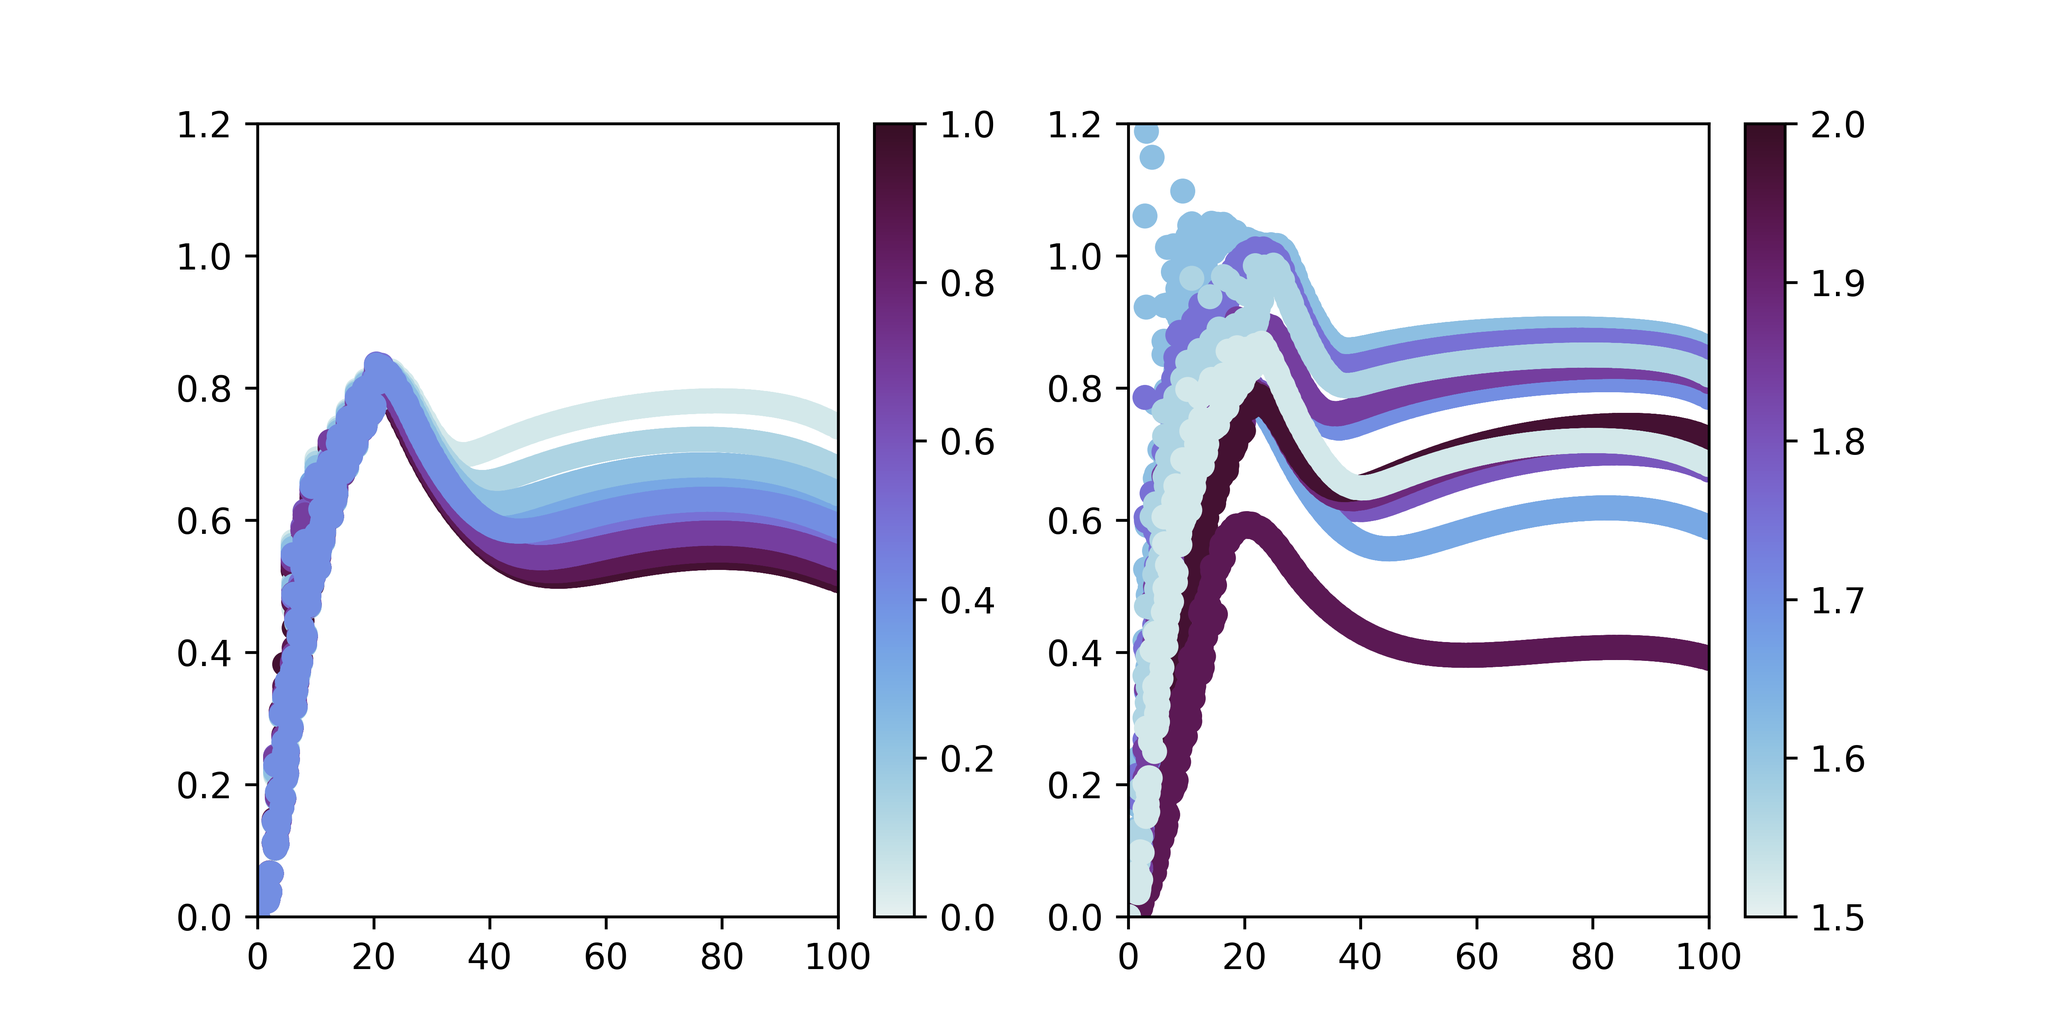
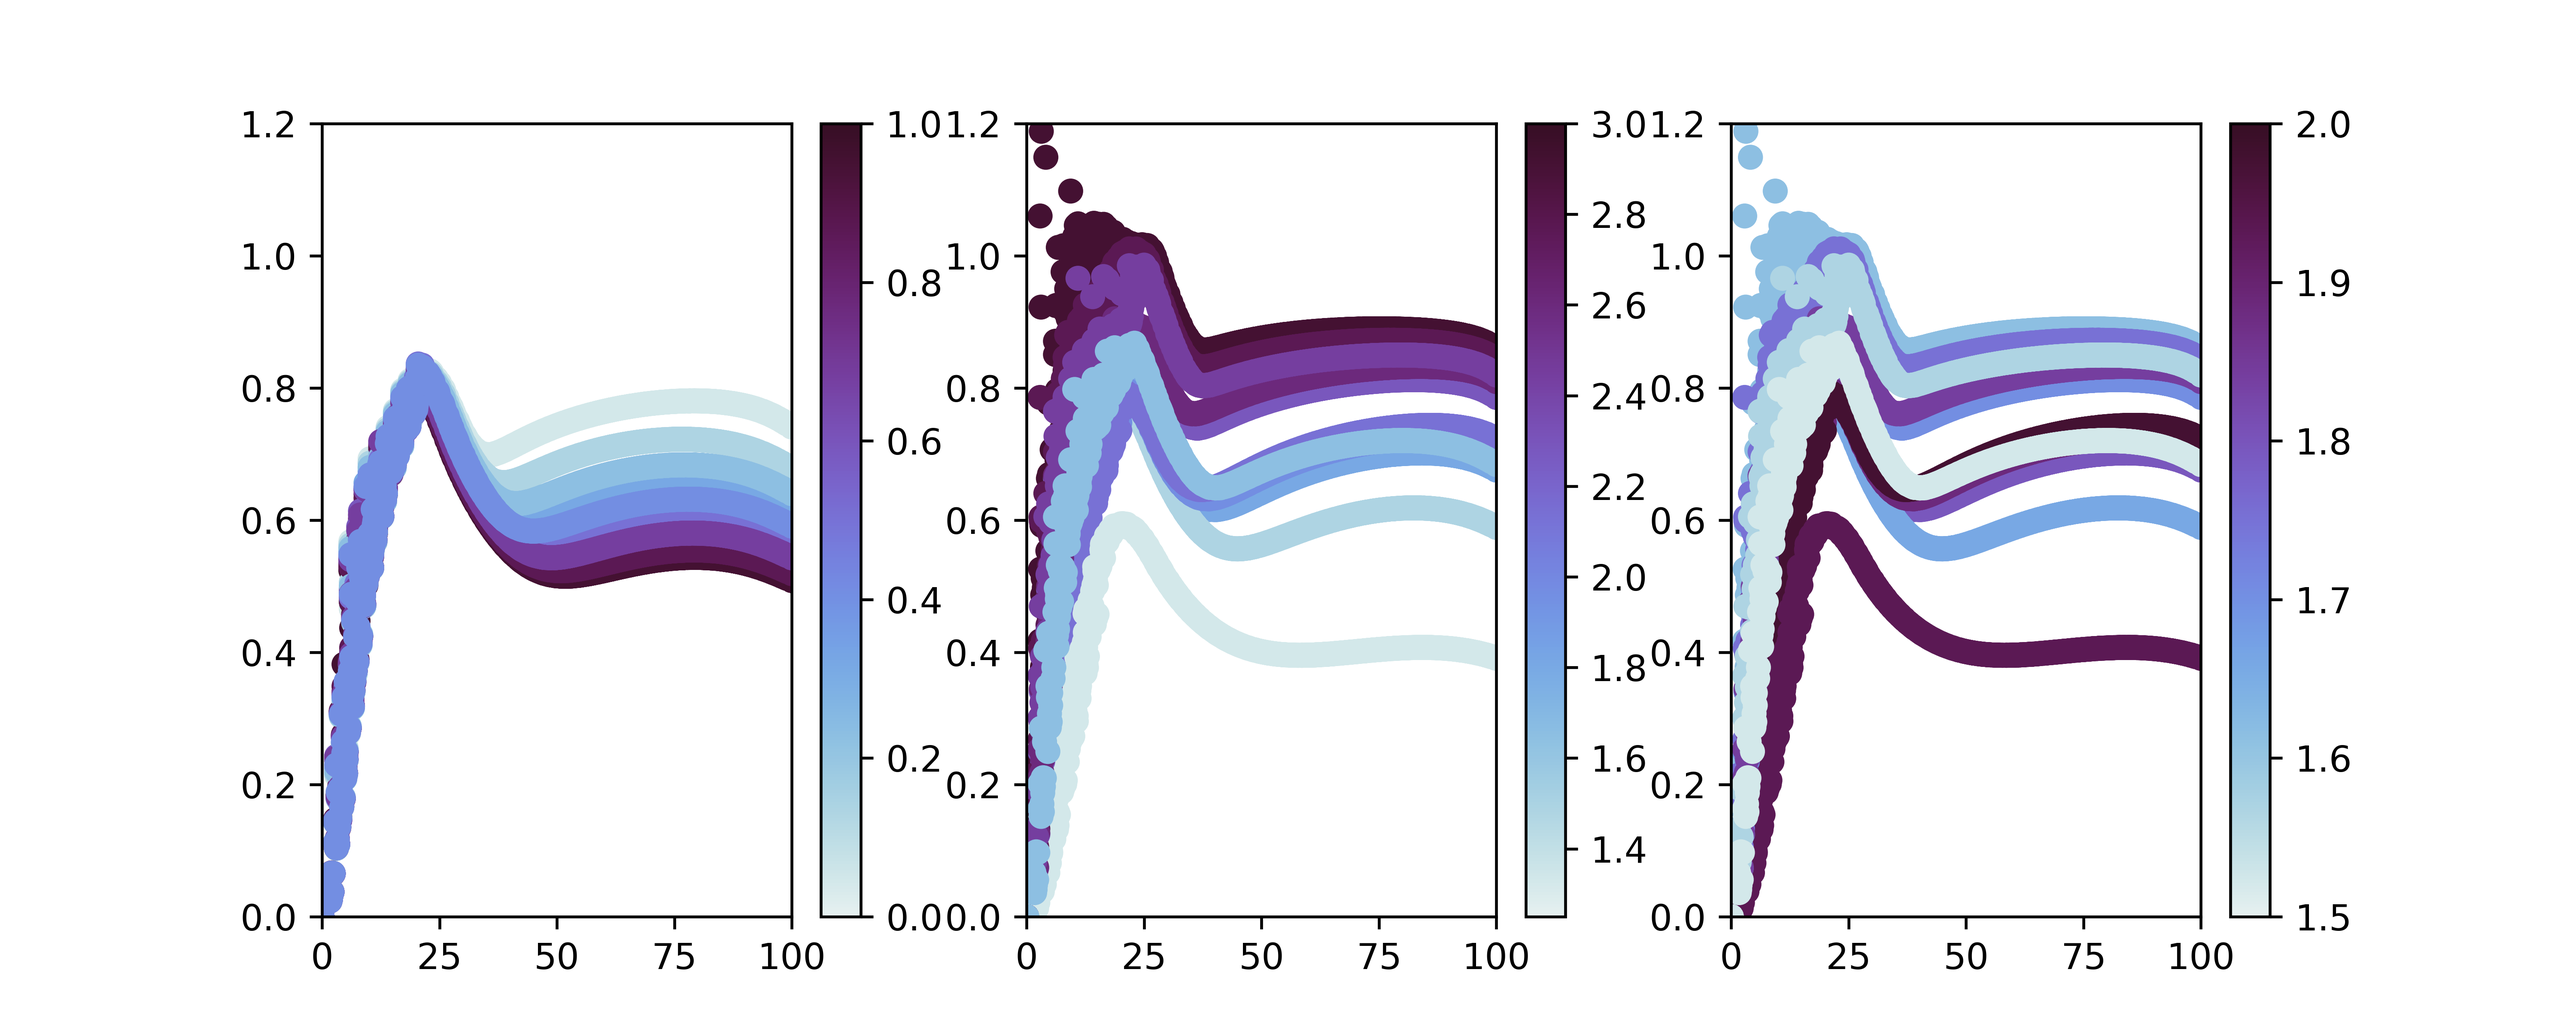
Update figure

diff --git a/meta/compare_forms.py b/meta/compare_forms.py
@@ -6,7 +6,7 @@ from mpl_toolkits.axes_grid1.axes_divider import make_axes_locatable
 
 import cmocean
 
-fig, (ax1, ax2) = plt.subplots(figsize=(8, 4), ncols=2)
+fig, (ax1, ax2, ax3) = plt.subplots(figsize=(10, 4), ncols=3)
 
 gamma_press = np.zeros((866, 11))
 
@@ -59,16 +59,21 @@ for j in range(exp_paras.shape[0]):
 
 for i in range(11):
     map1 = ax1.scatter(nodes[:, 0]/1e3, gamma_press[:, i], c=paras[i]*np.ones(gamma_press[:, i].shape), vmin=0, vmax=1, cmap=cmocean.cm.dense)
-    map2 = ax2.scatter(nodes[:, 0]/1e3, exp_press[:, i], c=exp_paras[i, 1]*np.ones(exp_press[:, i].shape), vmin=1.5, vmax=2, cmap=cmocean.cm.dense)
+    map2 = ax2.scatter(nodes[:, 0]/1e3, exp_press[:, i], c=exp_paras[i, 0]*np.ones(exp_press[:, i].shape), vmin=5/4, vmax=3, cmap=cmocean.cm.dense)
+
+    map3 = ax3.scatter(nodes[:, 0]/1e3, exp_press[:, i], c=exp_paras[i, 1]*np.ones(exp_press[:, i].shape), vmin=1.5, vmax=2, cmap=cmocean.cm.dense)
 
 fig.colorbar(map1, ax=ax1)
 fig.colorbar(map2, ax=ax2)
+fig.colorbar(map3, ax=ax3)
     
 ax1.set_xlim([0, 100])
 ax2.set_xlim([0, 100])
+ax3.set_xlim([0, 100])
 
 ax1.set_title
 
 ax1.set_ylim([0, 1.2])
 ax2.set_ylim([0, 1.2])
+ax3.set_ylim([0, 1.2])
 fig.savefig('formulations.png', dpi=600)
